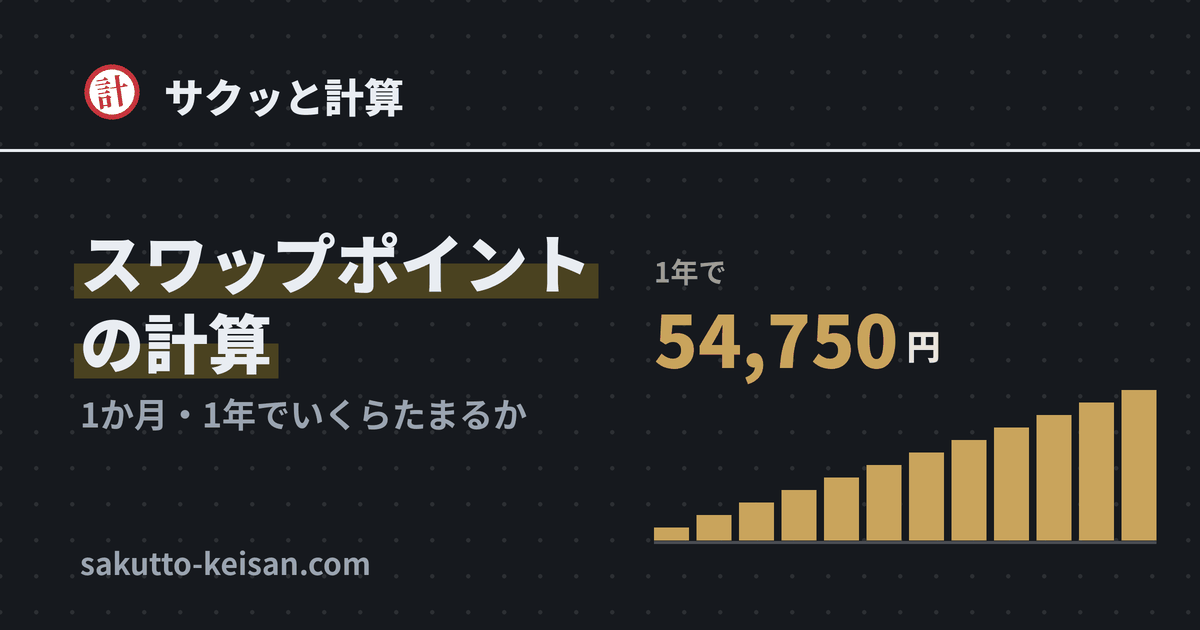
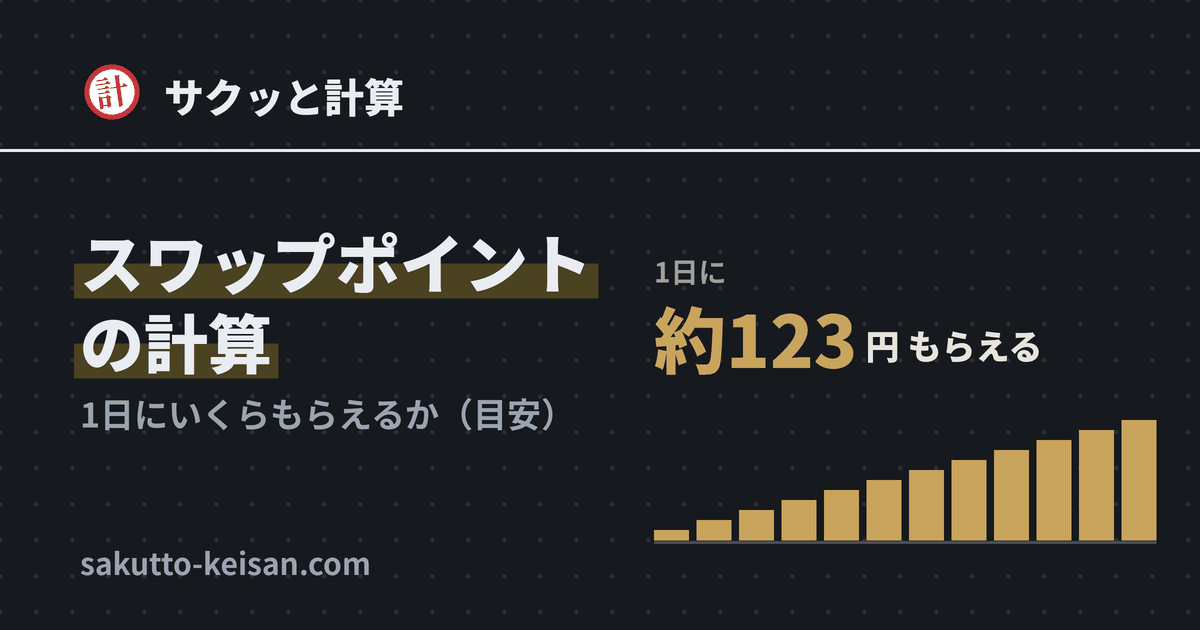
スワップポイント：通貨ペアと通貨の量から、1日の目安を出す形に (#11)
- 通貨ペア・買い売り・通貨の量だけで、2つの国の政策金利の差から1日の目安（1か月・1年と棒グラフ）
- 各国の政策金利と参考のレートは src/data/fx-swap.mjs（毎月1日に予約タスクが確かめて更新）
- 通貨ペアごとの目安の表（金利は中央銀行のページへのリンク）
- 「その他」のマスに長い数字を入れても横にはみ出さないように

Claude-Session: https://claude.ai/code/session_018QaCnXxoAb3HXQupiSjCkb

diff --git a/src/client/fx-swap.js b/src/client/fx-swap.js
@@ -1,25 +1,16 @@
 import { parseNum, fmt } from '../lib/number.mjs';
-import { fxSwap, swapBars, SWAP_PERIODS } from '../lib/fx.mjs';
-import { $, enterToNext, numericOnly } from './ui.mjs';
+import { fxSwapEstimate, swapBars, swapText } from '../lib/fx.mjs';
+import { $, numericOnly } from './ui.mjs';
 
-// スワップポイント：1日の額 × 通貨の量 × 日数。たまっていく額を棒グラフで
-let tileQty = null; // えらんだマスの通貨の量（「その他」に入れたときは、そちらを使う）
-let tileDays = 365; // えらんだ期間（はじめは1年）
-const val = (id) => parseNum($(id).value);
-const INPUTS = [...document.querySelectorAll('#calc input')];
+// スワップポイントの目安：通貨ペア・買いか売りか・通貨の量から、金利の差で1日の額。1年でたまる（払う）額を棒グラフで
+const DEFAULT_QTY = 10000; // はじめは1万通貨
+let side = 'buy';
+let tileQty = DEFAULT_QTY;
 
 function currentQty() {
-  const custom = val('qty');
+  const custom = parseNum($('qty').value);
   if (custom !== null) return Number.isNaN(custom) ? NaN : custom * 10000; // その他は万通貨で入れる
   return tileQty;
-}
-
-const currentDays = () => (val('days') !== null ? val('days') : tileDays);
-
-/** 期間の呼び名：1か月・半年・1年。その他は「◯日」 */
-function periodName(days) {
-  const p = SWAP_PERIODS.find((x) => x.days === days);
-  return p ? p.label : `${fmt(days, 0)}日`;
 }
 
 function setNote(text = '', error = false) {
@@ -29,71 +20,77 @@ function setNote(text = '', error = false) {
 }
 
 function drawBars(res) {
-  const bars = res ? swapBars(res.days, res.day) : [];
+  const bars = res && res.day !== 0 ? swapBars(365, Math.abs(res.day)) : [];
   const max = bars.length ? bars.at(-1).value : 0;
   $('s-bars').innerHTML = bars.map((b) => `<span class="swap-bar" style="height:${max > 0 ? (b.value / max) * 100 : 0}%"></span>`).join('');
-  const d = res ? res.days : currentDays();
-  $('s-end').textContent = Number.isInteger(d) && d > 0 ? `${fmt(d, 0)}日` : '？日';
 }
 
 function update() {
-  const days = currentDays();
-  const res = fxSwap({ perDay: val('swap'), qty: currentQty(), days });
-  ['swap', 'qty', 'days'].forEach((id) => $(`f-${id}`).classList.toggle('has-error', res.field === id));
-  const customQty = $('qty').value !== '';
-  document.querySelectorAll('.tile[data-qty]').forEach((t) => t.setAttribute('aria-pressed', String(!customQty && Number(t.dataset.qty) === tileQty)));
-  $('f-qty').classList.toggle('is-on', customQty);
-  const customDays = $('days').value !== '';
-  document.querySelectorAll('.tile[data-days]').forEach((t) => t.setAttribute('aria-pressed', String(!customDays && Number(t.dataset.days) === tileDays)));
-  $('f-days').classList.toggle('is-on', customDays);
+  const pair = $('pair').value;
+  const res = fxSwapEstimate({ pair, side, qty: currentQty() });
+  $('f-qty').classList.toggle('has-error', res.field === 'qty');
+  const custom = $('qty').value !== '';
+  document.querySelectorAll('.tile[data-qty]').forEach((t) => t.setAttribute('aria-pressed', String(!custom && Number(t.dataset.qty) === tileQty)));
+  $('f-qty').classList.toggle('is-on', custom);
   setNote(res.error || '', !!res.error);
-  $('r-cap').textContent = Number.isInteger(days) && days > 0 ? `${periodName(days)}で` : '持つ期間で';
+  const pay = res.ok && res.day < 0;
+  $('r-big').classList.toggle('is-error', pay);
+  $('s-bars').classList.toggle('is-pay', pay);
+  drawBars(res.ok ? res : null);
   if (!res.ok) {
     $('r-num').textContent = '？';
-    drawBars(null);
-    $('r-per').textContent = res.empty ? '通貨の量とスワップを入れてください' : '';
+    $('r-unit').textContent = '円';
+    $('r-per').textContent = res.empty ? '通貨の量をえらんでください' : '';
+    $('r-base').textContent = '';
     return;
   }
-  $('r-num').textContent = fmt(Math.floor(res.total), 0);
-  drawBars(res);
-  $('r-per').textContent = `1日 ${fmt(res.day, 2)}円・1か月 ${fmt(Math.floor(res.month), 0)}円・1年 ${fmt(Math.floor(res.year), 0)}円`;
+  $('r-cap').textContent = '1日に';
+  $('r-num').textContent = res.day === 0 ? '0' : `約${swapText(res.day)}`;
+  $('r-unit').textContent = res.day === 0 ? '円' : pay ? '円 払う' : '円 もらえる';
+  $('r-per').textContent = res.day === 0 ? '金利の差がないので、ほとんどつきません' : `1か月 約${swapText(res.month)}円・1年 約${swapText(res.year)}円`;
+  $('r-base').textContent = `金利の差 ${fmt(Math.abs(res.diff), 3)}％・1${res.pair.unit} ${fmt(res.rate, 3)}円で計算`;
 }
 
-/* ---- 入力 ---- */
-function fitTile(id) {
-  $(id).style.width = `${Math.max(1, $(id).value.length) + 0.2}ch`;
-}
-document.querySelectorAll('.tiles').forEach((box) =>
-  box.addEventListener('click', (e) => {
-    const t = e.target.closest('.tile[data-qty], .tile[data-days]');
-    if (!t) return;
-    if (t.dataset.qty) {
-      tileQty = Number(t.dataset.qty);
-      $('qty').value = '';
-    } else {
-      tileDays = Number(t.dataset.days);
-      $('days').value = '';
-    }
-    fitTile('qty');
-    fitTile('days');
+/* ---- 通貨ペア・買いか売りか ---- */
+$('pair').addEventListener('change', update);
+document.querySelectorAll('.seg-btn[data-side]').forEach((b) =>
+  b.addEventListener('click', () => {
+    side = b.dataset.side;
+    document.querySelectorAll('.seg-btn[data-side]').forEach((x) => x.setAttribute('aria-pressed', String(x === b)));
     update();
   }),
 );
-['qty', 'days'].forEach((id) => {
-  $(`f-${id}`).addEventListener('click', () => $(id).focus());
-  $(id).addEventListener('input', () => fitTile(id));
-});
-numericOnly(INPUTS);
-INPUTS.forEach((el) => el.addEventListener('input', update));
-$('clear').addEventListener('click', () => {
-  INPUTS.forEach((el) => { el.value = ''; });
-  tileQty = null;
-  tileDays = 365;
-  fitTile('qty');
-  fitTile('days');
+
+/* ---- 通貨の量 ---- */
+function fitQty() {
+  $('qty').style.width = `${Math.max(1, $('qty').value.length) + 0.2}ch`;
+}
+document.querySelector('.tiles').addEventListener('click', (e) => {
+  const t = e.target.closest('.tile[data-qty]');
+  if (!t) return;
+  tileQty = Number(t.dataset.qty);
+  $('qty').value = '';
+  fitQty();
   update();
 });
-enterToNext(INPUTS);
-fitTile('qty');
-fitTile('days');
+$('f-qty').addEventListener('click', () => $('qty').focus());
+numericOnly([$('qty')]);
+$('qty').addEventListener('input', () => {
+  fitQty();
+  update();
+});
+$('qty').addEventListener('keydown', (e) => {
+  if (e.key === 'Enter' && !e.isComposing) {
+    e.preventDefault();
+    $('qty').blur();
+  }
+});
+// クリア：はじめの1万通貨にもどす（通貨ペアと買い・売りはそのまま）
+$('clear').addEventListener('click', () => {
+  $('qty').value = '';
+  tileQty = DEFAULT_QTY;
+  fitQty();
+  update();
+});
+fitQty();
 update();

diff --git a/src/styles/site.css b/src/styles/site.css
@@ -185,10 +185,10 @@ h1 {
   border: 2.5px solid var(--red); border-radius: 50% 44% 52% 47% / 56% 48% 52% 44%; transform: rotate(-4deg);
 }
 /* 自分で入力するマス：数字と％の見た目はほかのタイルと同じ */
-.tile-input { cursor: text; }
-.tile-box { display: flex; align-items: baseline; justify-content: center; }
+.tile-input { cursor: text; min-width: 0; }
+.tile-box { display: flex; align-items: baseline; justify-content: center; max-width: 100%; }
 .tile-box input {
-  width: 2.2ch; min-width: 0; border: 0; background: transparent; color: var(--text); outline: none; padding: 0;
+  width: 2.2ch; min-width: 0; max-width: calc(100% - 1em); /* 長い数字はマスの中でスクロール（はみ出さない） */ border: 0; background: transparent; color: var(--text); outline: none; padding: 0;
   font: inherit; text-align: right; caret-color: var(--red);
 }
 .tile-box input::placeholder { color: var(--muted); opacity: .5; }
@@ -464,6 +464,7 @@ h1 {
 .swap-chart { grid-column: 1 / -1; margin: 0; }
 .swap-bars { display: flex; align-items: flex-end; gap: 3px; height: 92px; padding: 0 0 2px; border-bottom: 1px solid var(--border); }
 .swap-bar { flex: 1; min-width: 0; height: 0; background: var(--red); opacity: .85; border-radius: 2px 2px 0 0; transition: height .45s ease; }
+.swap-bars.is-pay .swap-bar { background: var(--error); } /* 売りで払うとき */
 .swap-axis { display: flex; justify-content: space-between; margin: 3px 0 0; font-size: 12.5px; color: var(--muted); font-weight: 700; }
 
 /* 順位と棒グラフ（安いほど短い） */

diff --git a/scripts/make-images.py b/scripts/make-images.py
@@ -285,16 +285,17 @@ def fx_cut(img, cx, top):
 
 
 def fx_swap_bars(img, cx, top):
-    """スワップ：たまっていく棒グラフ＋「1年で54,750円」"""
+    """スワップ：1年でたまっていく棒グラフ＋「1日に 約123円」（計算式の例と同じ数字）"""
     d = ImageDraw.Draw(img)
     x0, x1, base = cx - 236 * S, cx + 266 * S, top + 300 * S
-    d.text((x0, top + 10 * S), '1年で', font=font('bold', 28), fill=FX_MUTED)
-    d.text((x0, top + 44 * S), '54,750', font=font('black', 72), fill=FX_GOLD)
-    d.text((x0 + d.textlength('54,750', font=font('black', 72)) + 8 * S, top + 80 * S), '円', font=font('black', 34), fill=FX_INK)
+    d.text((x0, top + 10 * S), '1日に', font=font('bold', 28), fill=FX_MUTED)
+    f_big = font('black', 72)
+    d.text((x0, top + 44 * S), '約123', font=f_big, fill=FX_GOLD)
+    d.text((x0 + d.textlength('約123', font=f_big) + 8 * S, top + 80 * S), '円 もらえる', font=font('black', 34), fill=FX_INK)
     n, gap = 12, 8 * S
     bw = ((x1 - x0) - gap * (n - 1)) / n
     for i in range(n):
-        bh = 150 * S * (i + 1) / n
+        bh = 120 * S * (i + 1) / n
         bx = x0 + i * (bw + gap)
         d.rectangle([bx, base - bh, bx + bw, base], fill=FX_GOLD)
     d.line([(x0, base + 2 * S), (x1, base + 2 * S)], fill=FX_RULE, width=3 * S)

diff --git a/scripts/check-fold.py b/scripts/check-fold.py
@@ -25,7 +25,7 @@ CASES = {
     'ekihi': (lambda pg: (pg.click('.tile[data-ratio="1000"]'), pg.fill('#v-water', '2000')), '#f-water'),
     'fx-iji-ritsu': (lambda pg: (pg.fill('#rate', '150'), pg.fill('#money', '100000'), pg.fill('#lev', '10')), '#r-need'),
     'fx-losscut': (lambda pg: (pg.click('.tile[data-qty="10000"]'), pg.fill('#money', '100000'), pg.fill('#rate', '150')), '#r-price'),
-    'fx-swap': (lambda pg: (pg.click('.tile[data-qty="10000"]'), pg.fill('#swap', '150')), '.swap-chart'),
+    'fx-swap': (lambda pg: pg.click('.tile[data-qty="10000"]'), '#r-base'),
 }
 
 bad = 0

diff --git a/CLAUDE.md b/CLAUDE.md
@@ -23,6 +23,7 @@
   - Secrets：`CLOUDFLARE_API_TOKEN`（Pages の編集だけ）・`CLOUDFLARE_ACCOUNT_ID`
   - 本番では、アップロードの前後に `scripts/indexnow.mjs` が動き、**中身が変わったページだけ**を IndexNow（Bing・Yandex・Naver・Seznam・Yep）に知らせる。前回の指紋は本番の `/indexnow-pages.json`、鍵は `SITE.indexnowKey`（ビルドが `/<鍵>.txt` を置く）。結果は Actions の注意書き（IndexNow）で見る。Google は IndexNow に入っていないので、サイトマップとリンクで見つけてもらう
 - 流れ：ブランチ `claude/...` → PR → CI が緑・プレビューで確認 → **しょーくんに知らせてから Merge**
+  - 例外：毎月1日の予約タスク「サクッと計算 スワップの金利の更新（Claude）」は、`src/data/fx-swap.mjs` だけを直したPRを、CI が緑なら自分で Merge して、しょーくんに報告する（10/19 しょーくんが「金利は毎月、予約タスクで確かめて更新」をえらんだ）
 
 ## ファイル
 | 場所 | 中身 |
@@ -35,6 +36,7 @@
 | `src/mix.mjs` | 希釈の計算カードの部品（希釈率の計算と、使いみち別の「めんつゆ・次亜塩素酸ナトリウム・液体肥料」で共通）。動きは `src/client/kishaku.js` 1つで、ページごとのちがい（マス・原液の呼び名・ボトルのラベル・キャップの目安）は `#calc` の `data-*` で渡す |
 | `src/fx.mjs` | FX の計算カードの部品（証拠金維持率・ロスカット・スワップで共通。いちばん上の1段・通貨の量のマス・名前を欄の中に書いた入力欄）。ページは `src/pages/fx.mjs` に3つまとめて、動きは `src/client/fx-iji.js`・`fx-losscut.js`・`fx-swap.js` |
 | `src/lib/*.mjs` | 計算のロジック（DOM を触らない。テストとブラウザの両方で使う） |
+| `src/data/fx-swap.mjs` | スワップの目安に使う各国の政策金利（出典URL・その金利になった日）と参考のレート（欧州中央銀行の参照レートから出した円の通貨ペア）。毎月、予約タスクが確かめて、変わっていればPRを作る。ページの表と出典のリンクはここから作る |
 | `src/client/*.js` | ブラウザ用の入口（1ツール1ファイル）。`*.mjs` は共通部品 |
 | `src/styles/site.css` | デザイン（色はテーマごとに `[data-theme]` で管理） |
 | `public/` | そのままコピー（`_headers`・アイコン） |
@@ -97,6 +99,7 @@
 - 使いみち別のページ（めんつゆの割合・漂白剤の濃度・肥料の倍率など）の数字は、メーカーや役所のページでたしかめ、表の下に「出典：」のリンクを置く。メーカーで違うもの（3倍・4倍濃縮のかけつゆなど）は書かずに「製品の表示」にする。`tools.mjs` では `parent`（希釈率なら `kishaku`）を付け、パンくずは「ホーム › 希釈率の計算 › ◯◯の薄め方」。検索から直接来てもらうページなので、トップの目次には出さず、親のページ（希釈率の計算の「使いみち別の薄め方」）と、同じ親の使いみち別のページどうしの関連ツールからだけリンクする（しょーくんの方針・10/17「トップに出すとバランスが悪い」）。関連ツールの自動の補充にも入れない
 - 毎年変わる数字（社会保険料・税金）は `src/data/rates/<年度>.json` に出典URLと適用日を書いてまとめる（作るとき）。FXの計算は「目安。会社ごとにルールが違う」と明記し、日本の個人のレバレッジ上限25倍を前提にする
 - FX（しょーくんの方針・10/18「初心者のころ用語がむずかしくて理解できなかった」）：専門用語はやさしい言葉に（証拠金 → 口座のお金、必要証拠金 → 取引に必要なお金、ロット → 通貨の量、pips は使わず円で）。入力は最小。ページの役わりは 10/19 にしょーくんと決めた
-  - 証拠金維持率 `/fx-iji-ritsu/`：「口座のお金で、レバレッジ何倍（何通貨）にすると維持率は何％か」。いちばん上の1段に通貨ペア・いまのレート・クリア、その下に口座のお金、レバレッジ｜通貨の量。レバレッジか通貨の量のどちらかを入れると、もう片方の欄に答え（希釈と同じ点線の枠）と、大きく維持率。買い・売りで維持率は変わらないので、えらばない。25倍より大きいレバレッジは入れられない（量から出した25倍より大きいときは、足りないお金を赤で）
+  - 証拠金維持率 `/fx-iji-ritsu/`：「口座のお金で、レバレッジ何倍（何通貨）にすると維持率は何％か」。いちばん上の1段に通貨ペアとクリア、その下にいまのレート・口座のお金、レバレッジ｜通貨の量（10/19 に詰め詰めで見にくいと言われて、1段に1つずつにした）。レバレッジか通貨の量のどちらかを入れると、もう片方の欄に答え（希釈と同じ点線の枠）と、大きく維持率。買い・売りで維持率は変わらないので、えらばない。25倍より大きいレバレッジは入れられない（量から出した25倍より大きいときは、足りないお金を赤で）
   - ロスカット `/fx-losscut/`：「あと何円の損でロスカットか」。いちばん上の1段で通貨ペアと買い・売り、あとは通貨の量・口座のお金・いまのレート・ロスカットの基準。ロスカットは％より金額で見せる（大きく「あと◯円の損」、その下にロスカットのレート。維持率の％は小さいメーター）。基準より下のときは足りないお金（追証の目安）。売りはレートが上がると取引に必要なお金も増えるので、その分も入れて早めのレートを出す。ロスカットの基準は会社で50％や100％などばらばらなので欄で変えられるようにし、はじめは厳しいほうの100％
-  - 通貨ペアは円がつくものだけ（`FX_PAIRS`。ユーロドルなどはドル円のレートも要るので、いまは入れない）。スワップのページは、アプリに出ている自分の側の額を入れるので、通貨ペア・買い売りはえらばない
+  - スワップ `/fx-swap/`：「1日にいくらもらえるか（目安）」（10/19 しょーくんの判断。会社の額を入れる欄は作らない）。通貨ペア・買い売り・通貨の量（はじめは1万通貨）だけで、2つの国の政策金利の差から1日の額を大きく、1か月・1年と1年の棒グラフ、計算に使った金利の差とレート。売りで払うときは赤。式は 通貨の量 × 参考のレート × 金利の差 ÷ 365。実際の額は会社ごと・日ごとに違うので「目安」「約」と書く。金利とレートは `src/data/fx-swap.mjs`
+  - 通貨ペアは円がつくものだけ（`FX_PAIRS`。ユーロドルなどはドル円のレートも要るので、いまは入れない）。欄のうすい例とスワップの目安には、`src/data/fx-swap.mjs` の参考のレートを使う
